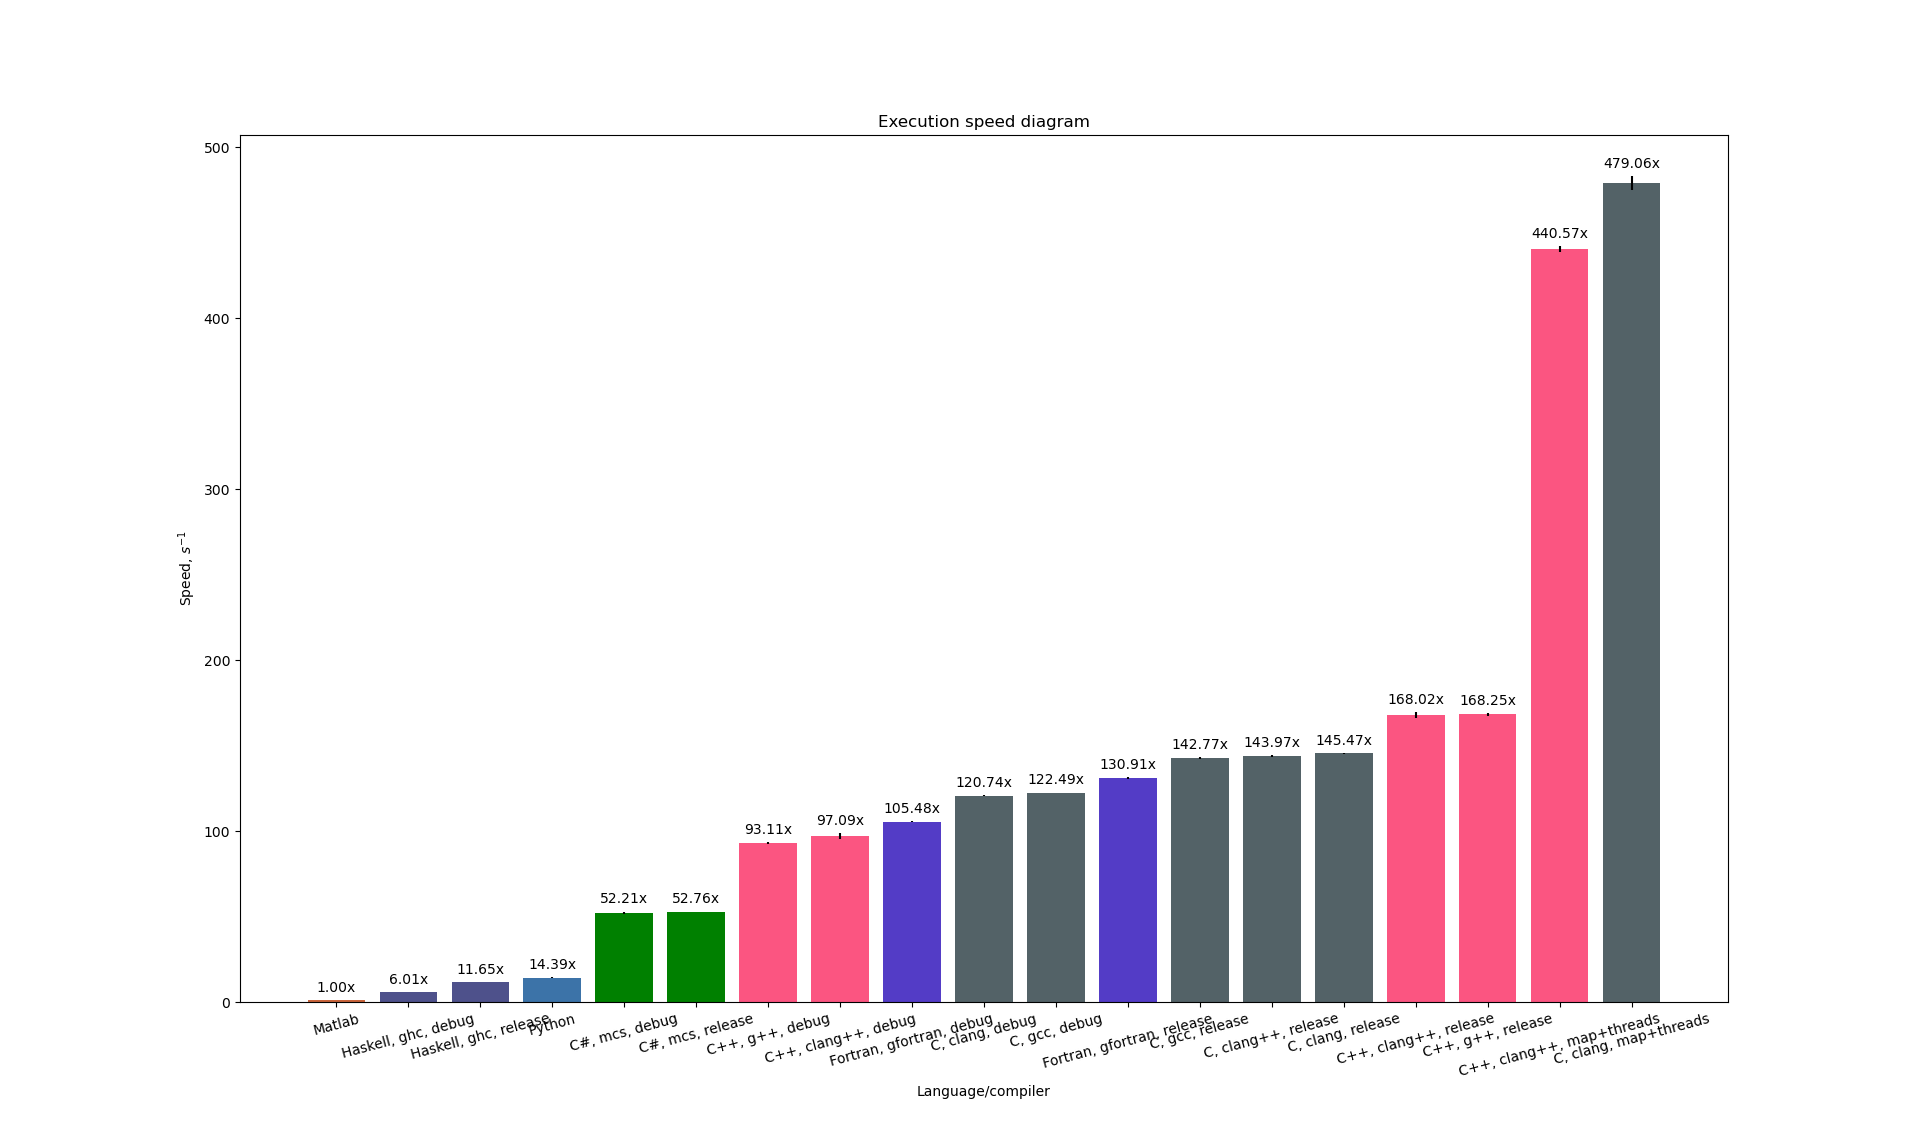
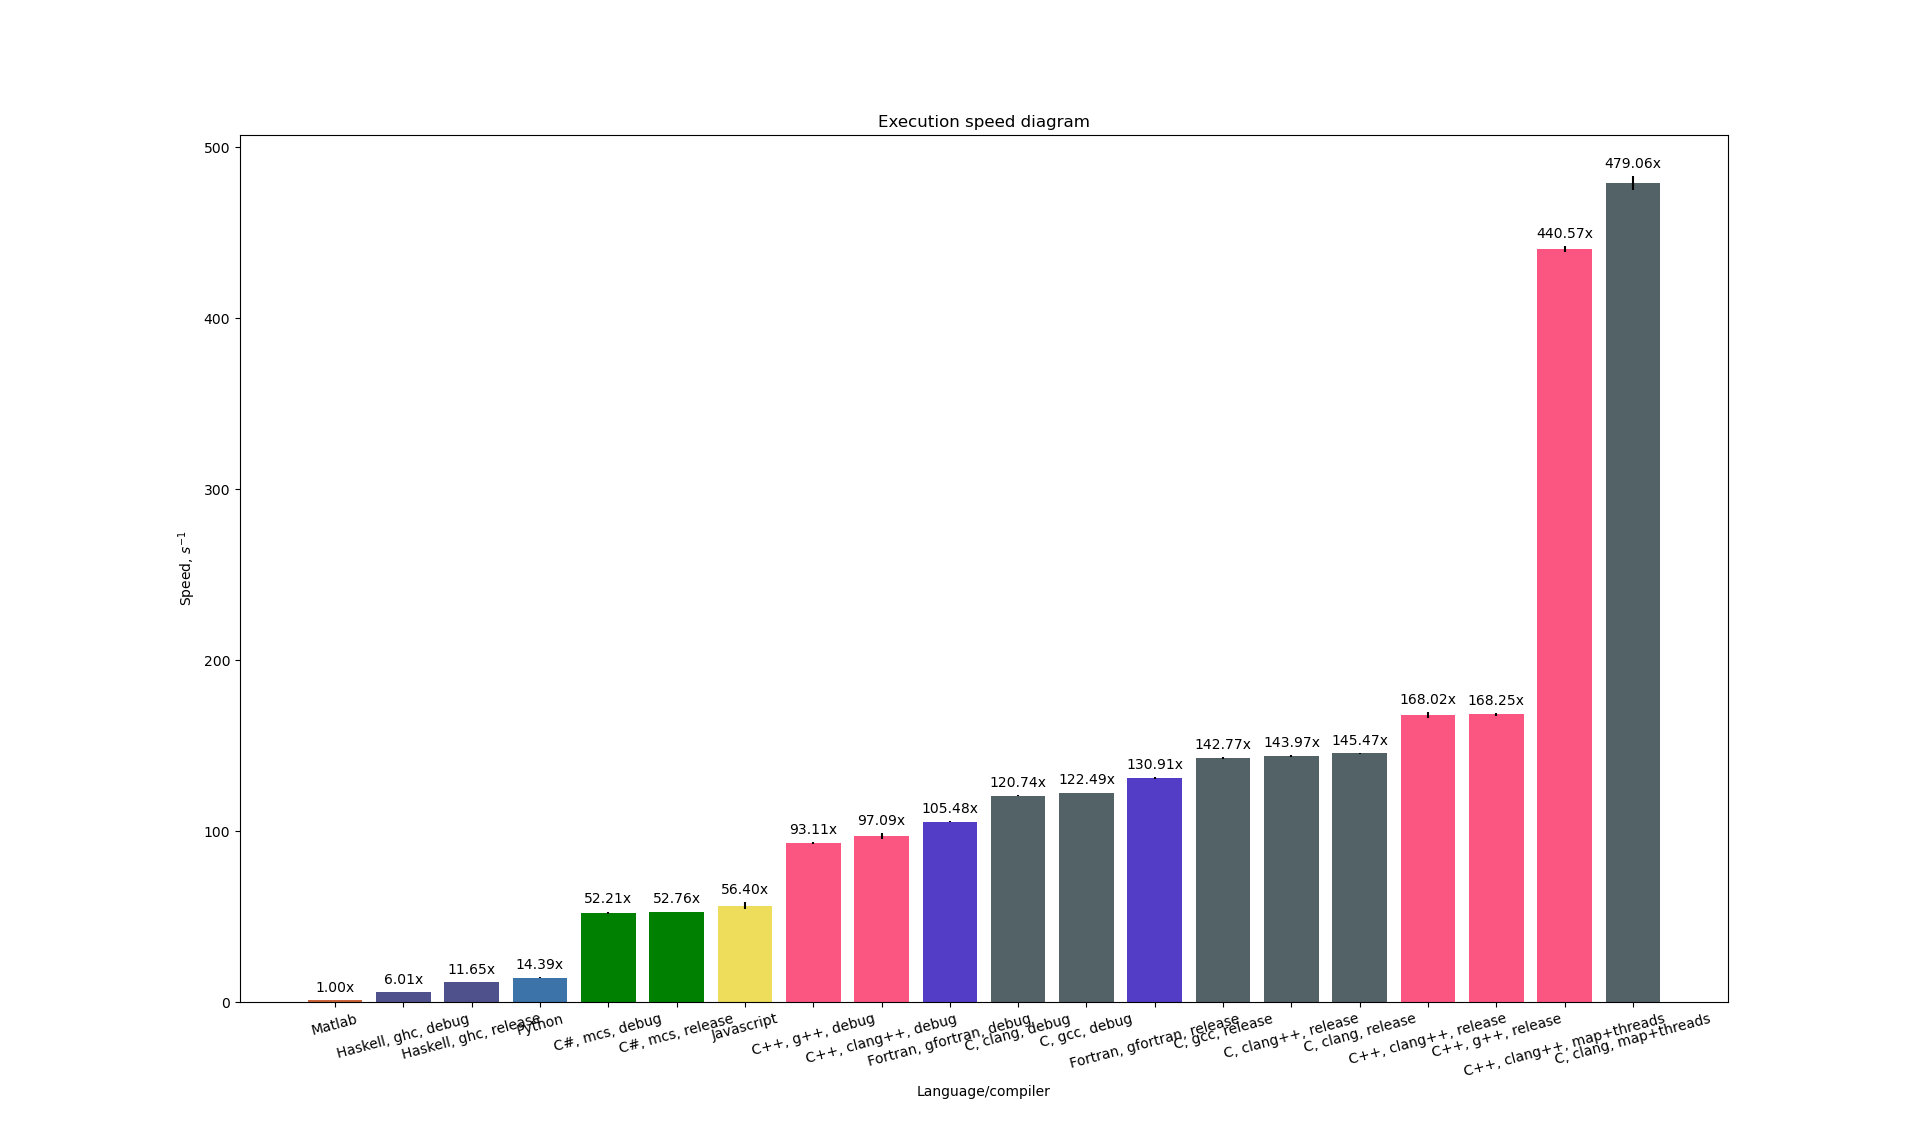
JS added (ver 5 only for now)

Changed region(s): [[0.1562, 0.1865, 0.875, 0.9636], [0.8438, 0.1243, 0.875, 0.1554]]

diff --git a/source/dijkstra_js.js b/source/dijkstra_js.js
@@ -1,0 +1,184 @@
+const readline = require('readline');
+const fs = require('fs');
+
+class IndexedPriorityQueue
+{
+    constructor(size)
+    {
+        this.size = size;
+    }
+
+    clear()
+    {
+        this.data = new Array();
+        this.indices = new Array(this.size).fill(-1);
+    }
+
+    pop()
+    {
+        let top = this.data[0];
+        this.indices[this.data[0].id] = -2;
+        this.indices[this.data[this.data.length - 1].id] = 0;
+        this.data[0] = this.data[this.data.length - 1];
+        this.data.pop();
+
+        let i = 0;
+        while (true)
+        {
+            let parent_i = 2 * i + 1;
+            let right_i = 2 * i + 2;
+            let left_exists = parent_i < this.data.length;
+            let right_exists = right_i < this.data.length;
+            if (/*left_exists &&*/ right_exists)
+            {
+                if (this.data[parent_i].distance < this.data[right_i].distance)
+                {
+                    if (this.data[parent_i].distance < this.data[i].distance)
+                    {
+                        let b1 = this.indices[this.data[i].id]; this.indices[this.data[i].id] = this.indices[this.data[parent_i].id]; this.indices[this.data[parent_i].id] = b1;
+                        let b2 = this.data[i]; this.data[i] = this.data[parent_i]; this.data[parent_i] = b2;
+                        i = parent_i;
+                    }
+                    else break;
+                }
+                else
+                {
+                    if (this.data[right_i].distance < this.data[i].distance)
+                    {
+                        let b1 = this.indices[this.data[i].id]; this.indices[this.data[i].id] = this.indices[this.data[right_i].id]; this.indices[this.data[right_i].id] = b1;
+                        let b2 = this.data[i]; this.data[i] = this.data[right_i]; this.data[right_i] = b2;
+                        i = right_i;
+                    }
+                    else break;
+                }
+            }
+            else if (left_exists /*&& !right_exists*/)
+            {
+                if (this.data[parent_i].distance < this.data[i].distance)
+                {
+                    let b1 = this.indices[this.data[i].id]; this.indices[this.data[i].id] = this.indices[this.data[parent_i].id]; this.indices[this.data[parent_i].id] = b1;
+                    let b2 = this.data[i]; this.data[i] = this.data[parent_i]; this.data[parent_i] = b2;
+                    i = parent_i;
+                }
+                else break;
+            }
+            else
+            {
+                break;
+            }
+        }
+
+        return top;
+    }
+
+    push(candidate)
+    {
+        let i = this.indices[candidate.id];
+        if (i == -1)
+        {
+            i = this.data.length;
+            this.indices[candidate.id] = i;
+            this.data.push(candidate);
+        }
+        else if (i == -2)
+        {
+            return;
+        }
+        else
+        {
+            if (candidate.distance < this.data[i].distance) this.data[i] = candidate;
+            else return;
+        }
+        while (i > 0)
+        {
+            let parent_i = (i - 1) >> 2;
+            if (this.data[i].distance < this.data[parent_i].distance)
+            {
+                let b1 = this.indices[this.data[i].id]; this.indices[this.data[i].id] = this.indices[this.data[parent_i].id]; this.indices[this.data[parent_i].id] = b1;
+                let b2 = this.data[i]; this.data[i] = this.data[parent_i]; this.data[parent_i] = b2;
+                i = parent_i;
+            }
+            else break;
+        }
+    }
+
+    length()
+    {
+        return this.data.length;
+    }
+};
+
+async function parse_ver3()
+{
+    let graph = new Array();
+    let benchmarks = new Array();
+    let read_benchmarks = false;
+
+    let reader = readline.createInterface({ input: fs.createReadStream("dijkstra.txt"), terminal: false });
+    for await (line of reader)
+    {
+        if (line.includes("GRAPH"))
+        {
+            read_benchmarks = false;
+        }
+        else if (line.includes("BENCHMARK"))
+        {
+            read_benchmarks = true;
+        }
+        else if (read_benchmarks)
+        {
+            let split = line.split(' ');
+            let source = parseInt(split[0]);
+            let destination = parseInt(split[1]);
+            if (isNaN(source) || isNaN(destination)) return;
+            benchmarks.push({ source: source, destination: destination });
+        }
+        else
+        {
+            let split = line.split(' ');
+            let source = parseInt(split[0]);
+            let destination = parseInt(split[1]);
+            let distance = parseFloat(split[2]);
+            if (isNaN(source) || isNaN(destination) || isNaN(distance)) return;
+            let extension = Math.max(source, destination) - graph.length + 1;
+            if (extension > 0) graph = graph.concat(new Array(extension).fill().map(() => []));
+            graph[source].push({ destination: destination, distance: distance });
+            graph[destination].push({ destination: source, distance: distance });
+        }
+    }
+
+    return [ graph, benchmarks ];
+}
+
+function solve_ver5(graph, benchmarks)
+{
+    let candidates = new IndexedPriorityQueue(graph.length);
+
+    benchmarks.forEach((benchmark, benchmark_i) =>
+    {
+        let source = benchmark.source;
+        let destination = benchmark.destination;
+        candidates.clear();
+        candidates.push({ id: source, int_distance: 0, distance: 0 });
+        let int_distance = 0;
+        let distance = Infinity;
+        while (candidates.length() != 0)
+        {
+            candidate = candidates.pop();
+            if (candidate.id == destination) { int_distance = candidate.int_distance; distance = candidate.distance; break; }
+            graph[candidate.id].forEach((connection, connection_i) =>
+            {
+                candidates.push({ id: connection.destination, int_distance: candidate.int_distance + 1, distance: candidate.distance + connection.distance });
+            });
+        }
+        console.log("%d %d %d %f", source, destination, int_distance, distance);
+    });
+}
+
+async function main()
+{
+    [ graph, benchmarks ] = await parse_ver3();
+    solve_ver5(graph, benchmarks);
+}
+
+main();

diff --git a/script/create_graphics.py b/script/create_graphics.py
@@ -49,6 +49,7 @@ class Measurement:
         elif "Fortran" in labels: self.color = "xkcd:blue with a hint of purple" if find_closest else "#4d41b1"
         elif "Haskell" in labels: self.color = "xkcd:twilight" if find_closest else "#5e5086"
         elif "Python" in labels: self.color = "xkcd:flat blue" if find_closest else "#3572a5"
+        elif "Javascript" in labels: self.color = "xkcd:dull yellow" if find_closest else "#f1e05a"
         elif "Matlab" in labels: self.color = "xkcd:terra cotta" if find_closest else "#e16737"
         else: self.color = "black" if find_closest else "#000000"
 
@@ -117,6 +118,7 @@ class Graphics:
             "Fortran, gfortran, release" : "dijkstra_fortran_gfortran_release.txt",
             "Haskell, ghc, debug" : "dijkstra_haskell_ghc_debug.txt",
             "Haskell, ghc, release" : "dijkstra_haskell_ghc_release.txt",
+            "Javascript" : "dijkstra_js_node.txt",
             "Python" : "dijkstra_python.txt",
             "Matlab" : "dijkstra_matlab_matlab.txt"
         }

diff --git a/README.md b/README.md
@@ -39,9 +39,10 @@ The measurements were performed on Intel Pentium 4415U. To reduce noise, the ker
 GCC      13.3.1
 Clang    19.1.4
 GFortran 13.3.1
-MCS      6.12.0.199, TARGET 4.5
+MCS      6.12.0.199, Target 4.5
 Python   3.12.8
 GHC      9.4.8
+Node     22.4.1
 Matlab   24.2.0.2833386 (R2024b) Update 4
 Kernel   6.10.10-zen1-x86_64
 ```
